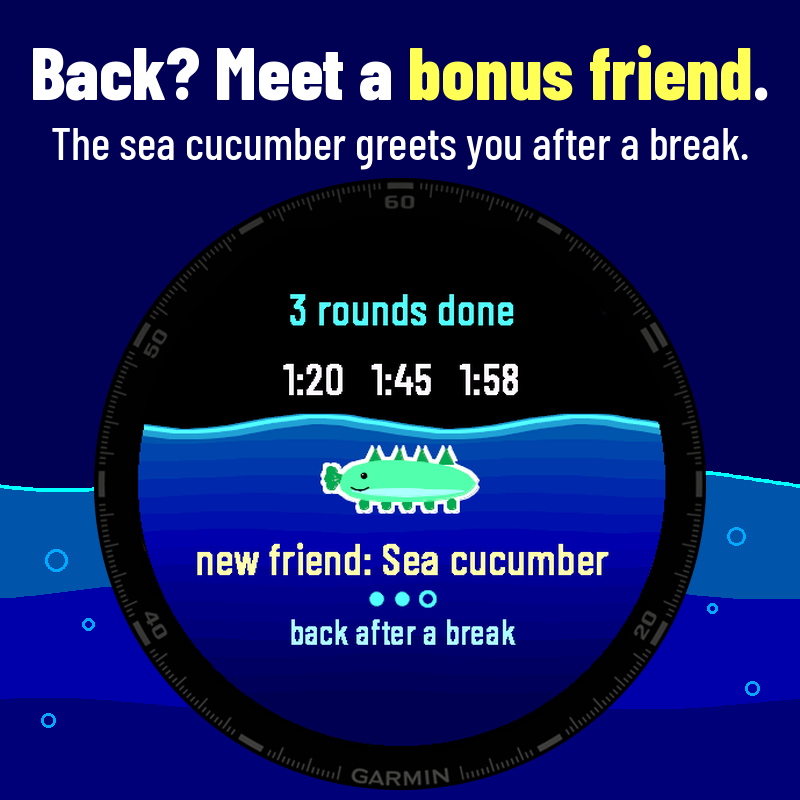
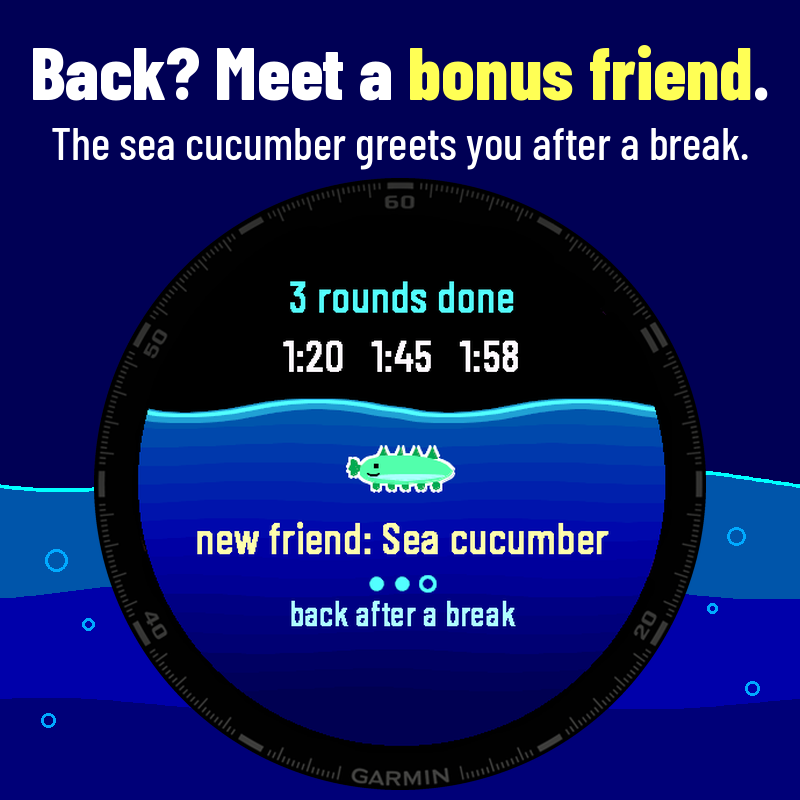
Gijs: winkelbeelden v4.1 uit de echte schermen van nu (poster 'Breathe. Make sea friends.' met het ademscherm, kaart 1 ademen in plaats van inhouden, kaart 2, 3 en 5 opnieuw), winkeltekst versie 13 (veld Screenshots)
Geen code gewijzigd. Nog niet gekeurd.

Claude-Session: https://claude.ai/code/session_01RMWUyjqZ5DkK3intFDm32j

Changed region(s): [[0.1562, 0.3438, 0.8438, 0.8125]]

diff --git a/producten/garmin-adem/winkel/maak_winkel_v41.py b/producten/garmin-adem/winkel/maak_winkel_v41.py
@@ -1,0 +1,26 @@
+# Winkelbeelden Ebb v4.1 (Gijs, run 58, 12 nov 2026): poster en kaart 1 met het echte ademscherm in plaats van
+# het inhoudscherm (besluit 11 nov 23:25: kop "Breathe. Make sea friends.", geen timer van het inhouden op de poster).
+# Tekent niets zelf: gebruikt Mila's poster_v4.py en winkel_v4.py (ontwerp/garmin/bron op main) met een andere kop
+# en een andere echte opname (fenix 8 47 mm, scène ademen-in, plaatjesrun 43167720322, code 9f66378).
+#   python3 maak_winkel_v41.py <ontwerp/garmin/bron> <ademen-in-fenix847mm.png> <uitmap>
+import sys, os
+bron, sim, uit = sys.argv[1], sys.argv[2], sys.argv[3]
+sys.path.insert(0, bron)
+import winkel_v4
+winkel_v4.kaart(sim, 'Breathe in. The sea rises.', 'sea rises', 'Deep breaths at a steady pace, drawn as water.', os.path.join(uit, '1-breathe.png'))
+code = open(os.path.join(bron, 'poster_v4.py')).read()
+assert "'Hold your breath.'" in code
+code = code.replace("'Hold your breath.'", "'Breathe.'").replace('os.path.abspath(__file__)', repr(os.path.join(os.path.abspath(bron), 'poster_v4.py')))
+ruimte = {'__name__': 'poster_v41'}
+exec(compile(code, 'poster_v4.py', 'exec'), ruimte)
+ruimte['poster'](sim, os.path.join(uit, '0-poster-v41.png'))
+# Kaart 2, 3 en 5 opnieuw uit de opnames van nu (het dier op het eindscherm is in de app kleiner dan op de kaarten v4);
+# koppen ongewijzigd. Kaart 4 (sea complete) is pixel voor pixel gelijk gebleven en blijft staan.
+#   vierde argument: map met fenix847mm-scene34.png, -scene4.png en -scene33.png van dezelfde run
+if len(sys.argv) > 4:
+    m = sys.argv[4]
+    for k, naam, t, g, o in [
+        (34, '2-new-friend.png', 'Come back. Meet a crab.', 'crab', 'New sea friends for sessions and weeks in a row.'),
+        (4, '3-sea-log.png', 'Fill your sea log.', 'sea log', '24 sea friends to find. Who is that shadow?'),
+        (33, '5-sea-cucumber.png', 'Back? Meet a bonus friend.', 'bonus friend', 'The sea cucumber greets you after a break.')]:
+        winkel_v4.kaart(os.path.join(m, 'fenix847mm-scene%d.png' % k), t, g, o, os.path.join(uit, naam))

diff --git a/producten/garmin-adem/winkeltekst.md b/producten/garmin-adem/winkeltekst.md
@@ -1,4 +1,8 @@
-# Ebb: winkeltekst (versie 12, CONCEPT, Gijs, 11 nov 2026 21:45 UTC)
+# Ebb: winkeltekst (versie 13, CONCEPT, Gijs, 12 nov 2026 07:10 UTC)
+
+Versie 13: alleen het veld Screenshots (besluit 11 nov 23:25: geen timer van het inhouden op de poster; besluit Thijs 12 nov 08:05: snel inleveren). Poster v4.1 met kop "Breathe. Make sea friends." en het echte ademscherm; kaart 1 is nu `1-breathe.png` in plaats van `1-hold.png`; kaart 2, 3 en 5 opnieuw uit de opnames van nu, omdat het dier op het eindscherm in de app kleiner is geworden dan op de kaarten v4 stond. Tekst zelf ongewijzigd. Nog niet gekeurd door Daan of een frisse beoordelaar.
+
+(Oude kop: versie 12, CONCEPT, Gijs, 11 nov 2026 21:45 UTC)
 
 Versie 11: keuring bouw 7 punt 5 en 6 (`ontwerp/garmin/ebb-bouw-7-keuring-drie.md`). "breathwork" in de eerste alinea. "After every session" gesplitst in Rounds en Calm, met het feestscherm erbij. Today en 8 weeks "from the menu, any time" (nieuw in de app). Aanraakscherm: doet niets tijdens ademen en inhouden; in het pauzemenu kun je wel tikken. Drie talen gelijk.
 
@@ -29,7 +33,7 @@ Versie 2 op basis van `platformen/garmin/onderzoek-winkeltekst-2026-11-10.md` (m
 - Extra taal (veld per taal in de winkel, `appLocalizations`): Deutsch en Nederlands, titel en tekst hieronder. De app zelf is Engels; dat staat in die teksten.
 - What's new: `First release.`
 - Icon: `producten/garmin-adem/winkel/icoon-500-v3.png` (Mila v3, blauwe walvis in de patrijspoort, `ontwerp/garmin/blad12/`). Het startpictogram op het horloge is haar kleine versie (walvis groot, zonder rand), per horlogemaat in `resources*/drawables/launcher_icon.png`.
-- Screenshots, in deze volgorde, alle uit `producten/garmin-adem/winkel/`: `0-poster-v4.png` (Mila blad12, zelfde stijl als de kaarten, "no extra account", 1000 x 1000, 58 KB), daarna de vijf kaarten v4 (ontwerp Mila blad v11, 800 x 800, elk onder 150 KB, gemaakt met `ontwerp/garmin/bron/winkel_v4.py` (staat op main, niet op de codetak) uit de ongewijzigde fenix 8-opnames van plaatjesrun 43001614405, code 330cf56): `1-hold.png` (scène 24), `2-new-friend.png` (scène 34), `3-sea-log.png` (scène 4, met het belletje), `4-sea-complete.png` (scène 25, alle 24 dieren geteld), `5-sea-cucumber.png` (scène 33, "back after a break"; kop "Back? Meet a bonus friend." even groot als de andere koppen).
+- Screenshots, in deze volgorde, alle uit `producten/garmin-adem/winkel/`: `0-poster-v41.png` (1000 x 1000, kop "Breathe. Make sea friends.", "no extra account"), daarna vijf kaarten van 800 x 800, elk onder 150 KB: `1-breathe.png` (scène ademen-in, "breathe in 23"), `2-new-friend.png` (scène 34), `3-sea-log.png` (scène 4), `4-sea-complete.png` (scène 25, ongewijzigd: pixel voor pixel gelijk aan de opname van nu), `5-sea-cucumber.png` (scène 33, "back after a break"). Alles gemaakt met `winkel/maak_winkel_v41.py`, dat Mila's `poster_v4.py` en `winkel_v4.py` (main, `ontwerp/garmin/bron/`) gebruikt, uit de ongewijzigde fenix 8 47 mm-opnames van plaatjesrun 43167720322 (code 9f66378). Alleen schermen die in de app zitten; geen beeld van de werelden (krab met zwemband, schildpad), want die zitten nog niet in de app.
 - Support e-mail: thijs@dortus.com (supportadres van Dortus, `ontwerp/stijl.md`).
 
 ## Description (English)
